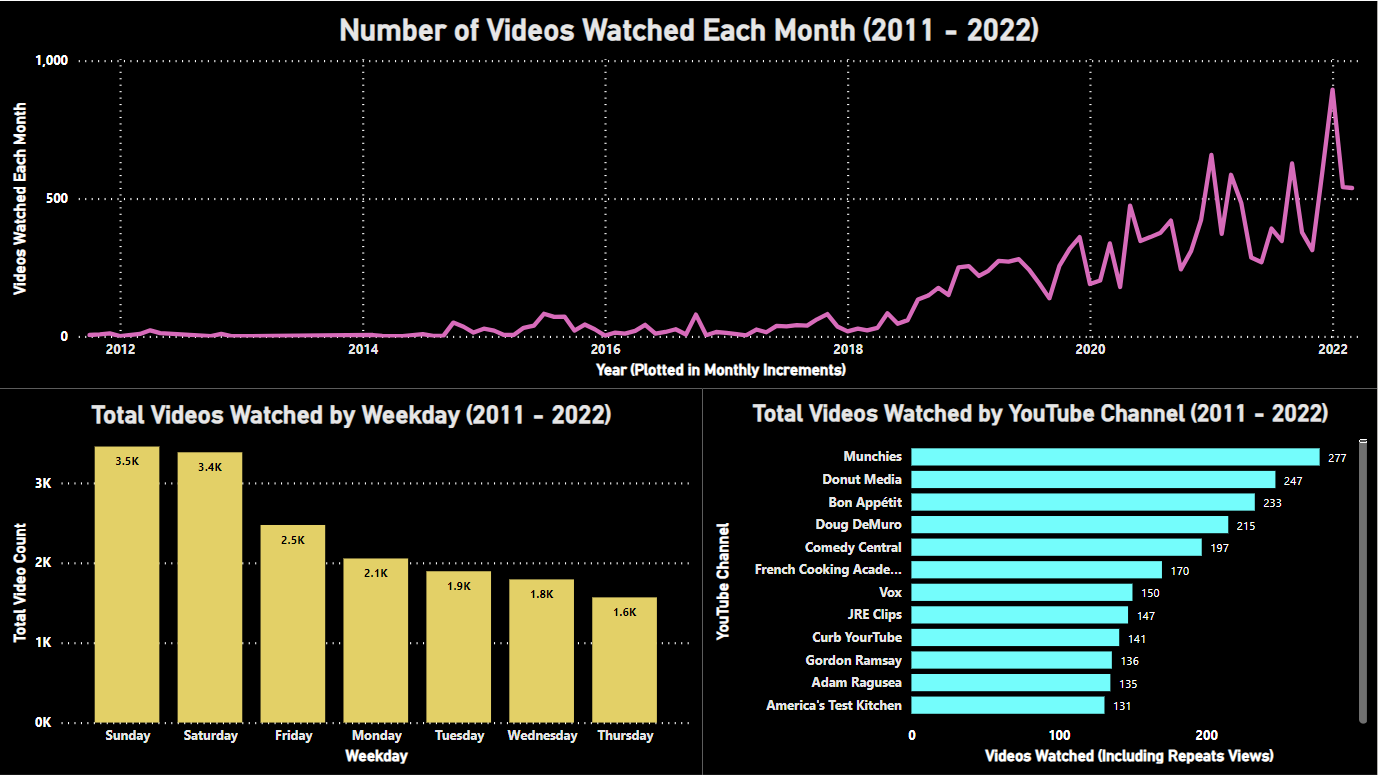
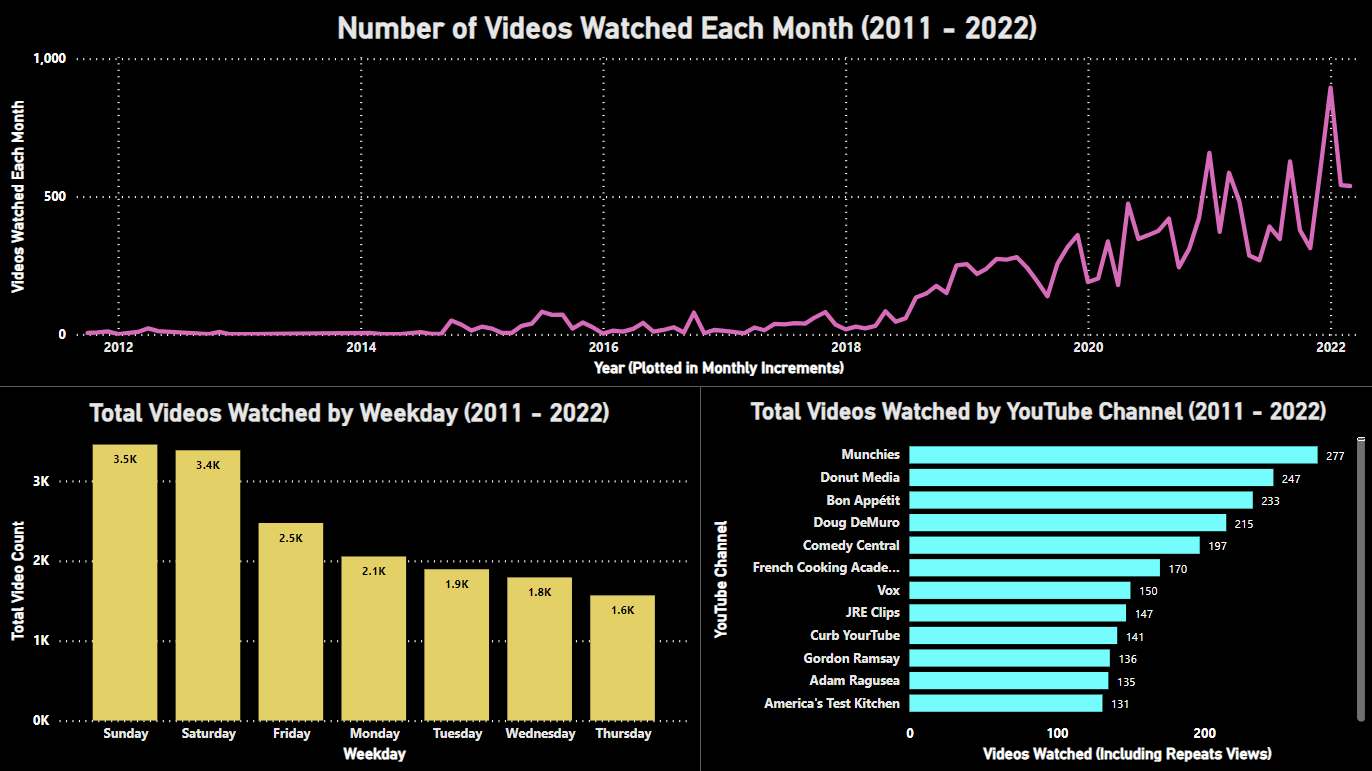
Removing annoying Fine White Boarder

diff --git a/README.md b/README.md
@@ -1,2 +1,8 @@
-# YouTube_Watch_History
-Basic Data Analysis of My YouTube History Showcasing SQL and Power BI Skills
+# Dan's YouTube Watch History
+This is a mini-project showcasing work in SQL and Power BI.
+
+A few things to note:
+* The SQL code wwas largely written in 2022.
+* The dashboard image shown below is the result of using Power BI on this dataset for only a few hours having never used it before.
+
+
